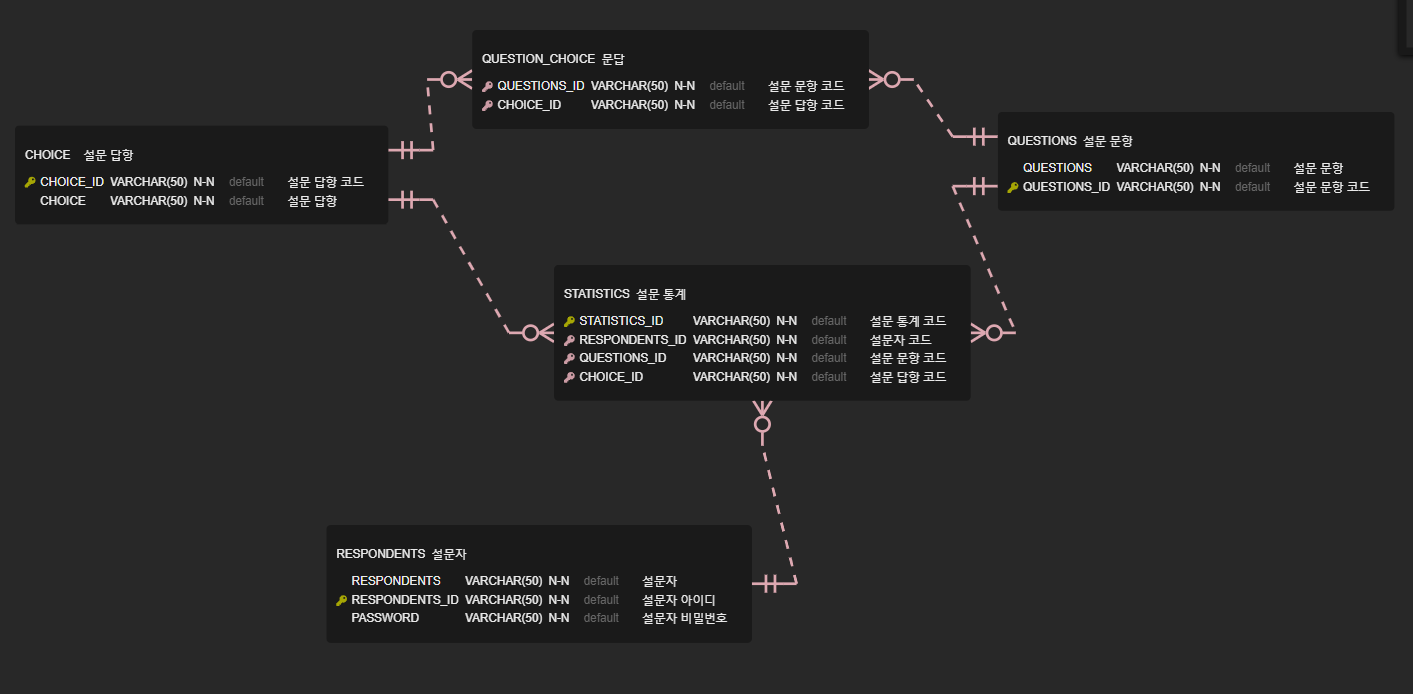
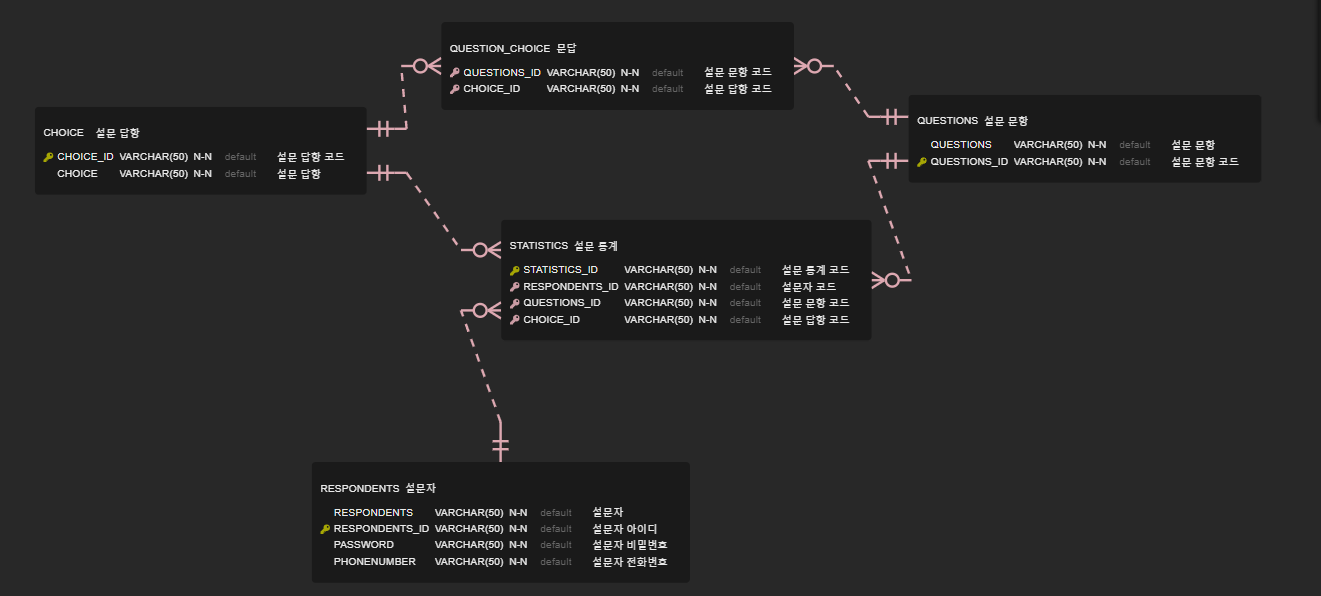
erd(전화번호) 추가

diff --git a/src/main/java/com/example/toy_servlet/SurveyServlet.java b/src/main/java/com/example/toy_servlet/SurveyServlet.java
@@ -5,6 +5,7 @@ import java.sql.ResultSet;
 import java.sql.Statement;
 import java.util.ArrayList;
 
+import javax.servlet.RequestDispatcher;
 import javax.servlet.ServletException;
 import javax.servlet.annotation.WebServlet;
 import javax.servlet.http.HttpServlet;
@@ -14,6 +15,7 @@ import javax.servlet.http.HttpServletResponse;
 import org.apache.catalina.connector.Request;
 
 import com.example.toy_servlet.commons.Commons;
+import com.example.toy_servlet.daos.PollSurveyDao;
 import com.example.toy_servlet.daos.PollsStaticsDao;
 
 @WebServlet(urlPatterns = "/surveyservlet")
@@ -21,27 +23,22 @@ public class SurveyServlet extends HttpServlet {
     @Override
     protected void doGet(HttpServletRequest request, HttpServletResponse response)
             throws ServletException, IOException {
-        // try {
-        //     String answer = request.getParameter("answer"); // 답항을 받는 것
-        //     PollsStaticsDao pollsStaticsDao = new PollsStaticsDao();
-        //     ArrayList optionInforList = new ArrayList<>();
-        //     pollList = PollsStaticsDao.
-        //     // html 받아오는것
-        //     String temp = "";
+        try {
+            String answer = request.getParameter("answer"); // 답항을 받는 것
 
-        //     // DB에서 terminal로 데이터 가져오는 코드
-        //     Commons commons = new Commons();
-        //     Statement statement = commons.getStatement();
-        //     String query = "";
-        //     ResultSet resultSet = statement.executeQuery(query);
+            PollSurveyDao pollSurveyDao = new PollSurveyDao();
+            ArrayList optionInforList = new ArrayList<>();
+            optionInforList = pollSurveyDao.answersuvey(answer, null);
 
-        //     // 웹에 html 방식으로 띄어주는 것
-        //     String contents = "";
-        //     PollsStaticsDao pollsStaticsDao = new PollsStaticsDao();
-        //     ArrayList 
-        //     pollList = pollsStaticsDao.Sel
-        // } catch (Exception e) {
-        //     System.out.println(e.getMessage());
-        // }
+            //JSP로 넘겨줌
+            request.setAttribute("answer", answer);
+            request.setAttribute("optionInforList", optionInforList);
+
+            // getWriter 전에 charset 하기 (한글 깨지지 않게끔)
+               response.setContentType("text/html;charset=UTF-8");
+
+        } catch (Exception e) {
+            System.out.println(e.getMessage());
+        }
     }
 }

diff --git a/src/main/java/com/example/toy_servlet/daos/PollSurveyDao.java b/src/main/java/com/example/toy_servlet/daos/PollSurveyDao.java
@@ -8,25 +8,36 @@ import java.util.HashMap;
 import com.example.toy_servlet.commons.Commons;
 
 public class PollSurveyDao {
-    // public ArrayList answersuvey(String answer){
-    //     ArrayList pollList = new ArrayList<>();
-    //     try {
+    public ArrayList answersuvey(String answer, ResultSet resultSet){
+        int count = 0;
+        ArrayList pollList = new ArrayList<>();
+        try {
             
-    //         Commons commons = new Commons();
-    //         Statement statement = commons.getStatement();
-    //         String query = "";
-    //         //ResultSet resultSet = statement.executeUpdate(query);
+            Commons commons = new Commons();
+            Statement statement = commons.getStatement();
+            HashMap answerRecord = new HashMap<>();
+            String query = "insert into statistics\n" + //
+                    "(STATISTICS_ID, RESPONDENTS_ID, QUESTIONS_ID, CHOICE_ID)\n" + //
+                    "values\n" + //
+                    "('"+resultSet.getString("STATISTICS_ID")+"', '"+resultSet.getString("RESPONDENTS_ID")+"', '"+resultSet.getString("QUESTIONS_ID") +"', '"+resultSet.getString("CHOICE_ID")+"')";
+            count = statement.executeUpdate(query);
+            //count = statement.executeUpdate(query); 
 
-    //         HashMap answerRecord = new HashMap<>();
-    //         //while(resultSet.next()){
-    //             answerRecord = new HashMap<>();
-    //             //answerRecord.put("")
-    //         }
 
+            // //HashMap answerRecord = new HashMap<>();
+            // while(resultSet.next()){ //해쉬맵에 담는다.
+            //     answerRecord = new HashMap<>(); // 초기화
+            //     answerRecord.put("STATISTICS_ID", resultSet.getString("STATISTICS_ID")); 
+            //     answerRecord.put("RESPONDENTS_ID", resultSet.getString("RESPONDENTS_ID"));
+            //     answerRecord.put("QUESTIONS_ID", resultSet.getString("QUESTIONS_ID"));
+            //     answerRecord.put("CHOICE_ID", resultSet.getString("CHOICE_ID"));
 
-    //     } //catch (Exception e) {
-    //         //System.out.println(e.getMessage());
-    //     //}
-    //     return answersuvey;
-    // }
+            //     pollList.add(answerRecord); //해쉬맵에 담은것들을 리스트에 담음
+            // }
+
+        } catch (Exception e) {
+            System.out.println(e.getMessage());
+        }
+        return pollList;
+    }
 }
